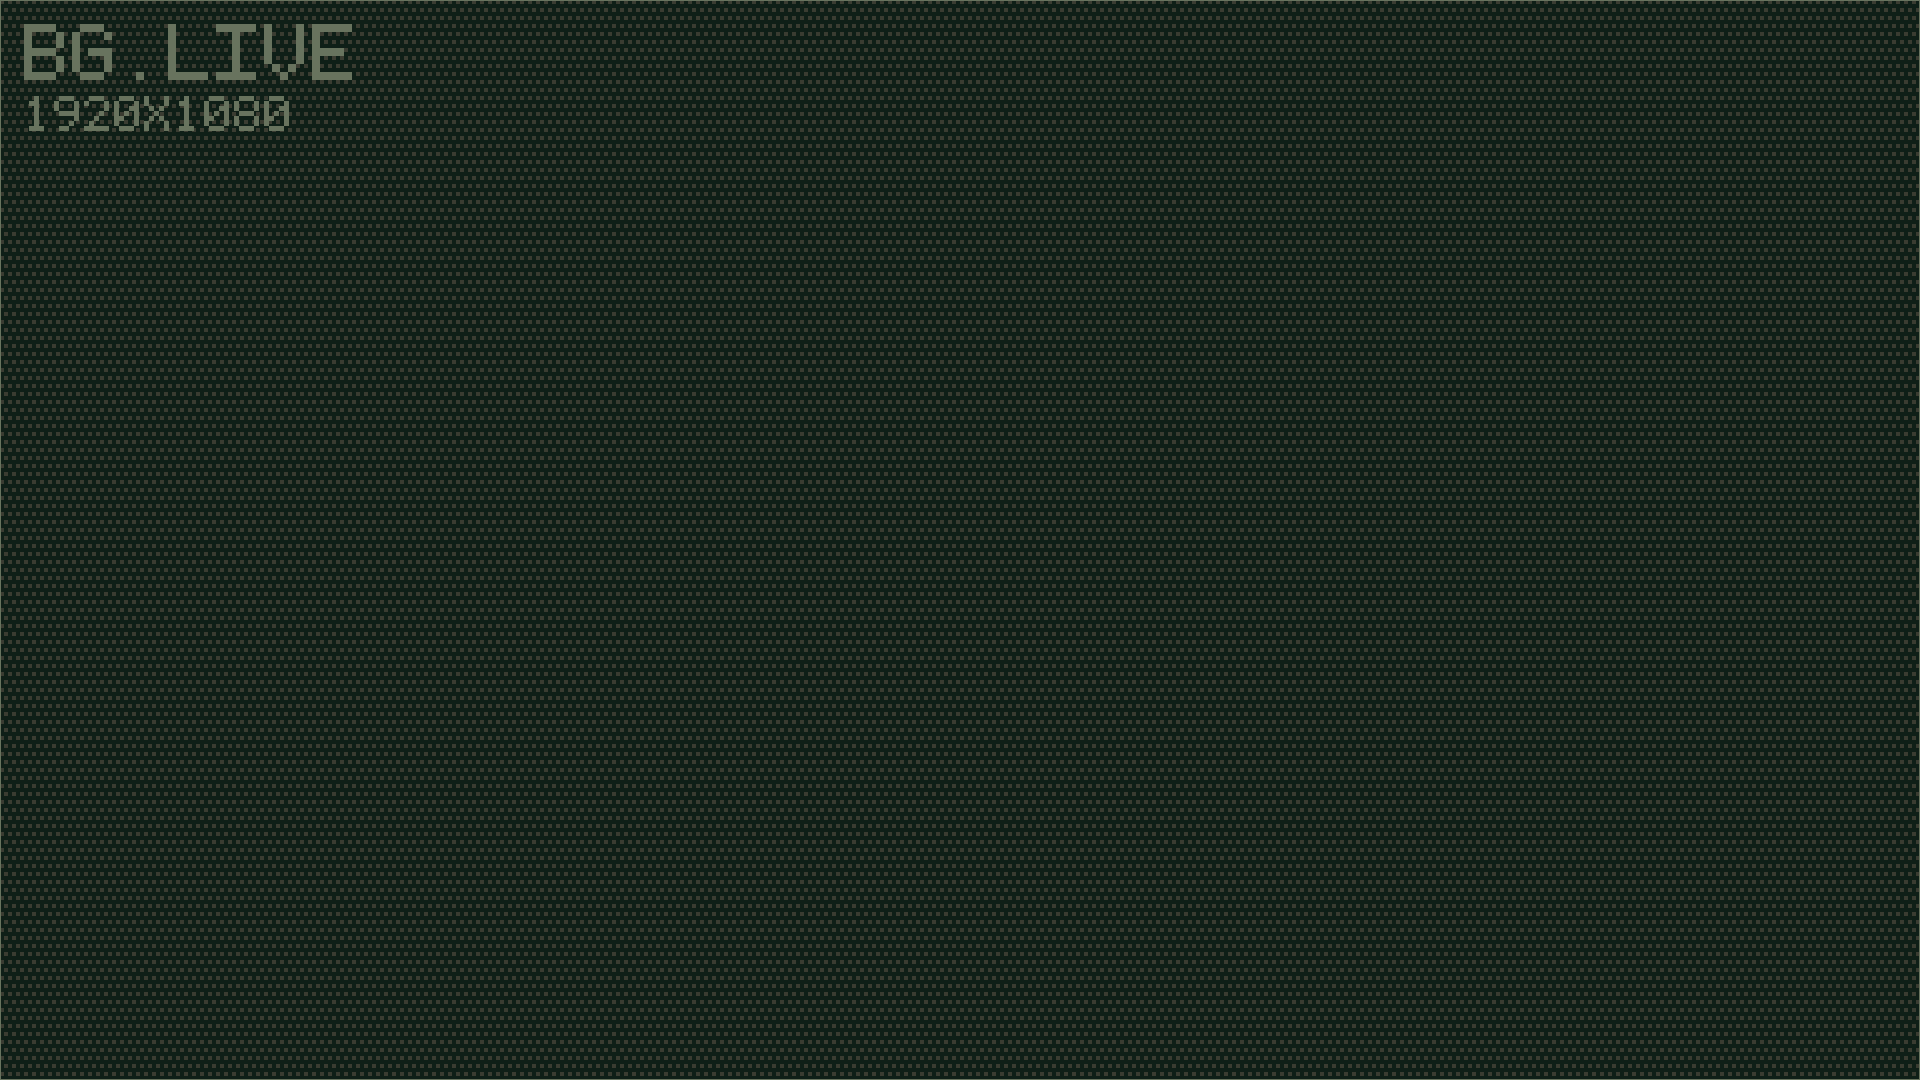
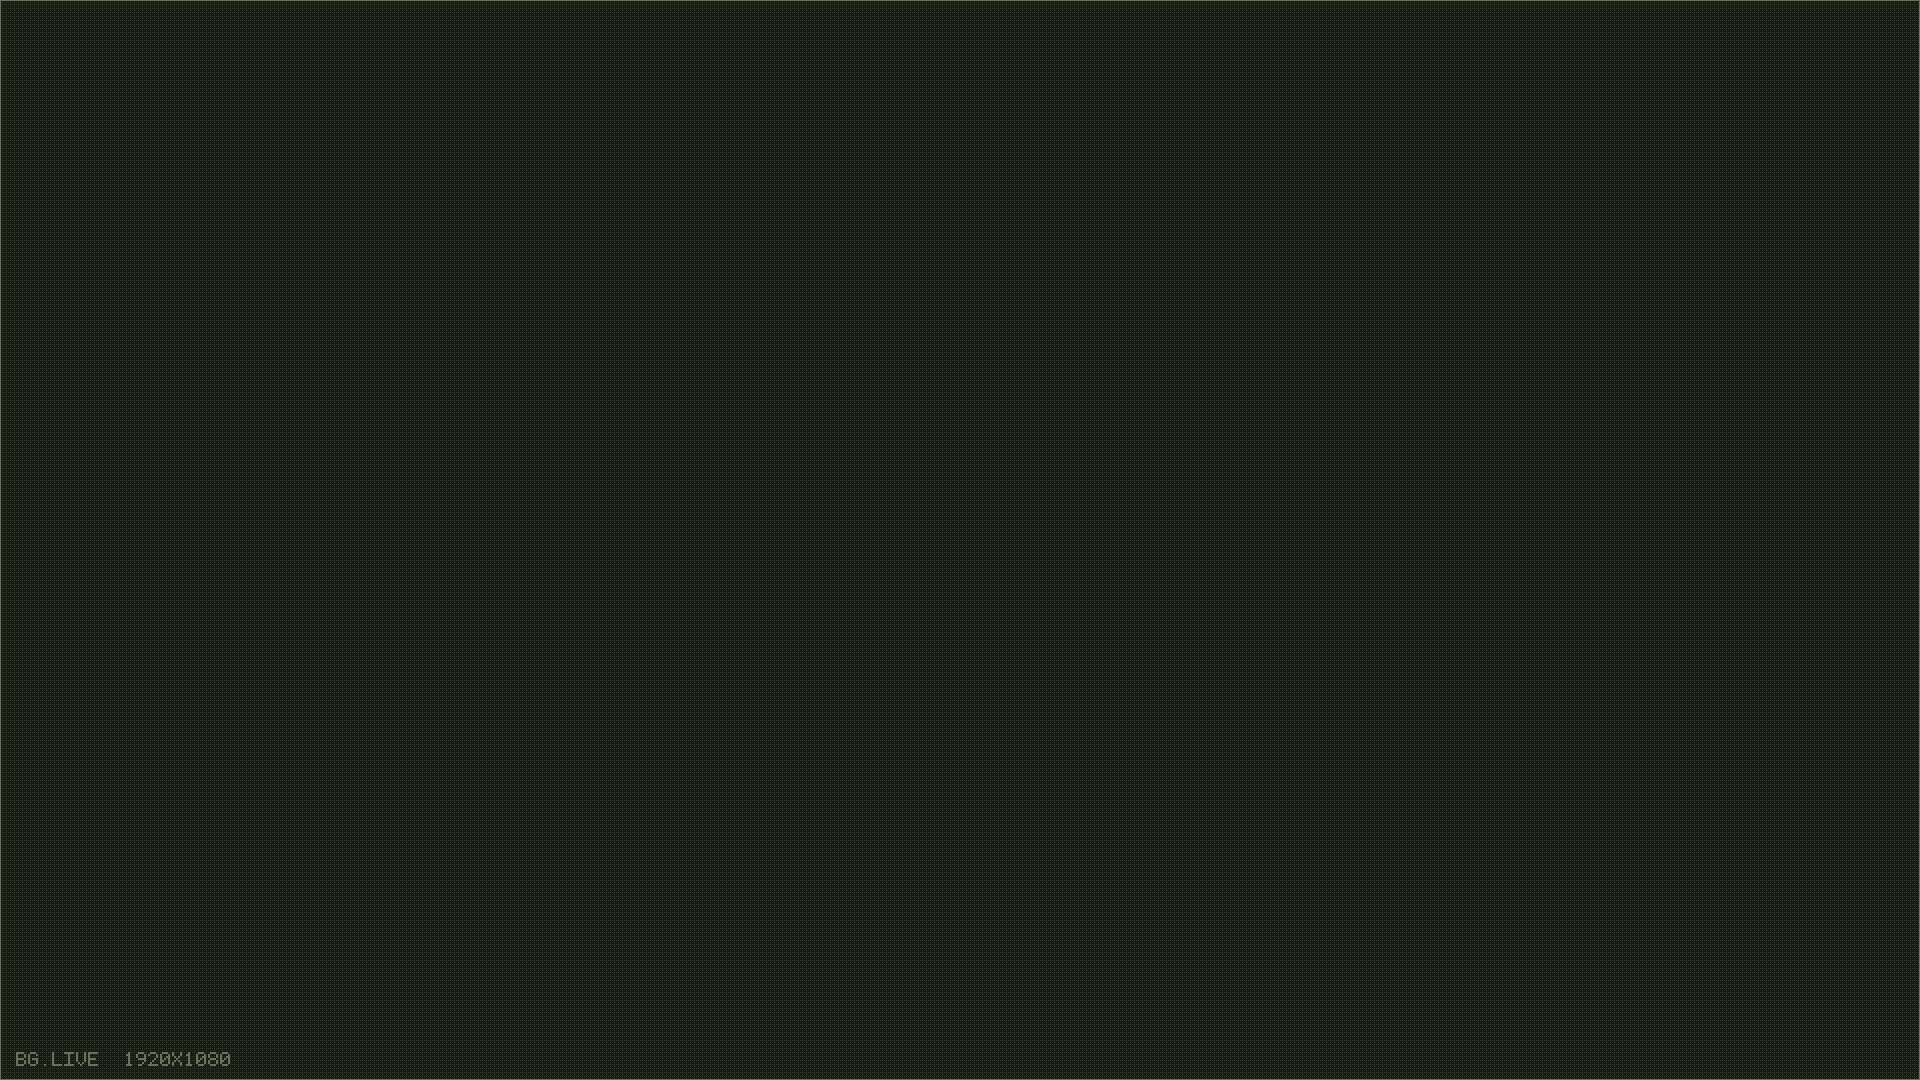
[cc] art: 아트 규격을 정수배로 정리 (소수배 축소 제거)
크기 표를 만들다 보니 지금 값들이 1비트 디더를 깨뜨리는 값이었다.
0.6배·0.75배로 줄어들면 Bayer 격자가 뭉개진다. 전부 1:1 아니면 정확히 1/2 로 맞췄다.

- 초상 384x480 → 생방송에서 192x240 (정확히 1/2), 상점에서 384x480 (1:1)
  전에는 232x290 (0.604배)
- 적 512x512 → 256x256 (1/2). 전에는 320x300 상자에 letterbox 되어 0.586배
- 전신 CG → 좌측 칸 752x792 와 1:1. 전에는 752x672 상자라 0.849배
- 소품 4종의 선언 크기를 화면 표시 크기와 일치시키고, 플레이스홀더도 그 크기로 생성
  (Img.resized — 최근접, 보간 없음)
- 9슬라이스: 버튼 32x32 모서리 8px, 패널 48x48 모서리 12px 로 키웠다.
  16x16 모서리 3px 은 본 아트가 장식을 넣을 자리가 없다

배경 플레이스홀더가 시끄러웠다 — 50% 체커 + 8배 크기 키 이름이 전투 칸을 덮었다.
옅은 디더 한 겹 + 좌하단 작은 라벨로 바꿨다. 그 위에 실제 UI 가 올라가는 그림이다.

브라우저 확인: 콘솔 에러 0, 실패 요청 0. 적·초상이 또렷해졌다.

diff --git a/src/scenes/phases/OfficePhase.ts b/src/scenes/phases/OfficePhase.ts
@@ -55,7 +55,8 @@ export class OfficePhase extends PhaseScene {
     const h = 480;
     const x = g.x + Math.round((g.w - w) / 2);
     const y = g.y + g.h - h - 24;
-    const full = { x: g.x, y: g.y + 96, w: g.w, h: g.h - 120 };
+    // 전신은 좌측 칸과 1:1 이다 (752x792). 이름 글자는 그 위에 얹는다
+    const full = { x: g.x, y: g.y, w: g.w, h: g.h };
     const body = art === null ? false : this.spriteFit(full, [art.body]);
     if (!body && !this.spriteFit({ x, y, w, h }, [...(art === null ? [] : [art.portrait]), 'star.silhouette'])) {
       this.rect(x, y, w, h, 'mid');
@@ -82,10 +83,10 @@ export class OfficePhase extends PhaseScene {
     //   가운데 아래(local 380~1130 / 400~570)는 출연자 줄이 쓰므로 비워 둔다.
     this.sprite(b.x + 24, b.y + 30, 'prop.lamp');
     this.sprite(b.x + 24, b.y + 470, 'prop.ledger', 336, 264);
-    this.sprite(b.x + 980, b.y + 120, 'prop.stamp', 128, 205);
-    this.sprite(b.x + 960, b.y + 350, 'prop.scroll', 176, 66);
-    this.sprite(b.x + 400, b.y + 640, 'prop.tag', 154, 102);
-    this.sprite(b.x + 880, b.y + 660, 'prop.tag', 154, 102);
+    this.sprite(b.x + 980, b.y + 120, 'prop.stamp', 128, 208);
+    this.sprite(b.x + 960, b.y + 350, 'prop.scroll', 176, 64);
+    this.sprite(b.x + 400, b.y + 640, 'prop.tag', 152, 104);
+    this.sprite(b.x + 880, b.y + 660, 'prop.tag', 152, 104);
     this.frame(b.x, b.y, b.w, b.h, 'dust');
   }
 

diff --git a/src/scenes/phases/LivePhase.ts b/src/scenes/phases/LivePhase.ts
@@ -298,7 +298,8 @@ export class LivePhase extends PhaseScene {
       this.label(v.x + L.pad, v.y + 16, `${enc.floor}F · ${enc.turn}턴`, 'dust');
       this.title(v.x + L.pad, v.y + 48, this.clip(enemyName(enc.enemyKey), inner, 'title'), 'bone');
       // 적 CG 가 오면 그걸 쓰고, 없으면 키 해시로 만든 실루엣을 그린다
-      if (!this.spriteFit({ x: v.x + 212, y: v.y + 130, w: 320, h: 300 }, [enc.enemyKey])) {
+      // 512x512 원본을 정확히 1/2 로 줄여 놓는다. 소수배로 줄이면 디더가 깨진다
+      if (!this.spriteFit({ x: v.x + 244, y: v.y + 152, w: 256, h: 256 }, [enc.enemyKey])) {
         this.enemyShape(v.x + 212, v.y + 130, 320, 300, enc.enemyKey);
       }
       this.bar(v.x + L.pad, v.y + 452, inner, enc.enemy.hp, enc.enemy.maxHp, 'wax');
@@ -358,7 +359,8 @@ export class LivePhase extends PhaseScene {
     const art = starArt(star.id);
     const px = v.x + v.w - 248;
     const py = v.y + 16;
-    const box = { x: px, y: py, w: 232, h: v.h - 32 };
+    // 384x480 원본을 정확히 1/2 로 (192x240). 상점 화면에서는 1:1 로 쓰인다
+    const box = { x: v.x + v.w - 216, y: v.y + 80, w: 192, h: 240 };
     const before = this.children.list.length;
     const keys = appealing ? [art.appeal, art.portrait] : [art.portrait];
     if (!this.spriteFit(box, keys)) this.dither(px, py, 232, v.h - 32, 'mid', ratio < 0.15 ? 12 : 8);

diff --git a/src/scenes/phases/RevivePhase.ts b/src/scenes/phases/RevivePhase.ts
@@ -65,7 +65,8 @@ export class RevivePhase extends PhaseScene {
     const h = 480;
     const x = g.x + Math.round((g.w - w) / 2);
     const y = g.y + g.h - h - 24;
-    const full = { x: g.x, y: g.y + 96, w: g.w, h: g.h - 120 };
+    // 전신은 좌측 칸과 1:1 이다 (752x792). 이름 글자는 그 위에 얹는다
+    const full = { x: g.x, y: g.y, w: g.w, h: g.h };
     if (!this.spriteFit(full, [art.body]) && !this.spriteFit({ x, y, w, h }, [art.portrait, 'star.silhouette'])) {
       this.rect(x, y, w, h, 'mid');
     }
@@ -86,7 +87,7 @@ export class RevivePhase extends PhaseScene {
     this.spriteCover(b, ['bg.revive.bench', 'bg.shop.bench']);
     // 소생실에서는 작업대에 장부와 도장만 올려 둔다 (진열은 편성실 몫)
     this.sprite(b.x + 24, b.y + 470, 'prop.ledger', 336, 264);
-    this.sprite(b.x + 980, b.y + 120, 'prop.stamp', 128, 205);
+    this.sprite(b.x + 980, b.y + 120, 'prop.stamp', 128, 208);
     this.frame(b.x, b.y, b.w, b.h, 'dust');
 
     if (corpse === undefined || star === undefined) return;

diff --git a/public/assets/packs/final/README.md b/public/assets/packs/final/README.md
@@ -26,7 +26,9 @@
 ## 규칙 3줄
 
 1. **경로와 파일명이 열쇠다.** 아래 표와 한 글자라도 다르면 인식되지 않는다 (`npm run art` 가 오타를 짚어준다)
-2. **크기를 맞춰라.** 다르면 늘어나거나 잘린다. `npm run art` 가 경고한다
+2. **크기를 정확히 맞춰라.** 표의 크기는 화면에 놓이는 크기와 **1:1 또는 정확히 2배**로 잡아 뒀다.
+   1.5배·0.75배 같은 소수배로 늘어나거나 줄어들면 **디더 패턴이 깨져서 지저분해진다.**
+   `npm run art` 가 크기가 다른 파일을 잡아서 알려준다
 3. **PNG · 알파 채널 사용 가능.** 인물·소품·적은 배경을 투명으로 비워라
 
 ## 그림 규격 (03-ASSET-MODULES §4-1)
@@ -59,8 +61,8 @@
 
 | 파일 | 크기 | 어디에 |
 |---|---|---|
-| `star/body_<이름>.png` | 752×792 | 상점 좌측 **전신** |
-| `star/<이름>.png` | 384×480 | 생방송 우상단 **초상** |
+| `star/body_<이름>.png` | 752×792 | 상점 좌측 **전신** — 칸을 통째로 채운다 (1:1) |
+| `star/<이름>.png` | 384×480 | **초상** — 생방송에서는 1/2 로, 상점에서는 1:1 로 쓰인다 |
 | `star/<이름>_appeal.png` | 384×480 | **어필 컷** — 억지 웃음 + 카메라를 본다 |
 | `star/silhouette.png` | 1536×480 | 이름 없는 몸 (384×480 프레임 4칸 가로 배열) |
 
@@ -78,31 +80,37 @@
 | `enemy/flame.png` | 512×512 | 화염 — 23~30F |
 | `enemy/gatekeeper.png` | 512×512 | 문지기 — 31F 이상 |
 
+화면에는 **256×256 (정확히 1/2)** 로 놓인다. 여백을 두지 말고 512 칸을 꽉 채워 그려라 —
+투명 여백이 넓으면 실제로는 작게 보인다.
+
 ## 버튼 · 패널 CG (9-slice)
 
-**늘어나는 그림이다.** 가로세로로 늘려도 모서리는 그대로 유지된다.
-가장자리 3px(패널은 4px)이 모서리로 고정되고 가운데만 늘어난다. 그래서 **16×16 같은 작은 그림이면 충분**하다.
+**늘어나는 그림이다.** 버튼 하나를 267×96 부터 744×72 까지 온갖 크기로 쓴다.
+바깥 모서리는 그대로 두고 가운데만 늘린다. 그래서 작은 그림 한 장이면 충분하다.
 
-| 파일 | 어디에 |
-|---|---|
-| `ui/button.png` | 버튼 평상 |
-| `ui/button_hover.png` | 마우스를 올렸을 때 |
-| `ui/button_danger.png` | 되돌릴 수 없는 선택 (소생 · 어필 · 훼손) |
-| `ui/button_ghost.png` | 보조 · 비활성 |
-| `ui/panel.png` | 패널 (융기) |
-| `ui/panel_sunken.png` | 패널 (함몰 — 목록 · 채팅창) |
+| 파일 | 크기 | 모서리 | 어디에 |
+|---|---|---|---|
+| `ui/button.png` | 32×32 | 8px | 버튼 평상 |
+| `ui/button_hover.png` | 32×32 | 8px | 마우스를 올렸을 때 |
+| `ui/button_danger.png` | 32×32 | 8px | 되돌릴 수 없는 선택 (소생 · 어필 · 훼손) |
+| `ui/button_ghost.png` | 32×32 | 8px | 보조 · 비활성 |
+| `ui/panel.png` | 48×48 | 12px | 패널 (융기) |
+| `ui/panel_sunken.png` | 48×48 | 12px | 패널 (함몰 — 목록 · 채팅창) |
+
+**모서리 8px** = 네 귀퉁이 8×8 픽셀은 절대 늘어나지 않는다. 장식은 그 안에 넣어라.
+가운데 16×16 은 가로세로로 반복해 늘어나므로 **이어져도 티가 안 나는 무늬**여야 한다.
 
 > `ui/button.png` **한 장만** 줘도 된다. 나머지 상태는 그 그림 위에 테두리 색으로만 구분한다.
 
-## 소품 (편성실 작업대)
+## 소품 (편성실 작업대) — 전부 1:1
 
-| 파일 | 크기 |
-|---|---|
-| `prop/lamp.png` | 224×352 |
-| `prop/ledger.png` | 448×352 |
-| `prop/stamp.png` | 160×256 |
-| `prop/scroll.png` | 256×96 |
-| `prop/tag.png` | 192×128 |
+| 파일 | 크기 | 무엇 |
+|---|---|---|
+| `prop/lamp.png` | 224×352 | 램프 (광원 — 작업대를 비춘다) |
+| `prop/ledger.png` | 336×264 | 장부 |
+| `prop/stamp.png` | 128×208 | 도장 |
+| `prop/scroll.png` | 176×64 | 두루마리 |
+| `prop/tag.png` | 152×104 | 가격표 (두 군데에 놓인다) |
 
 ## 그 외
 
